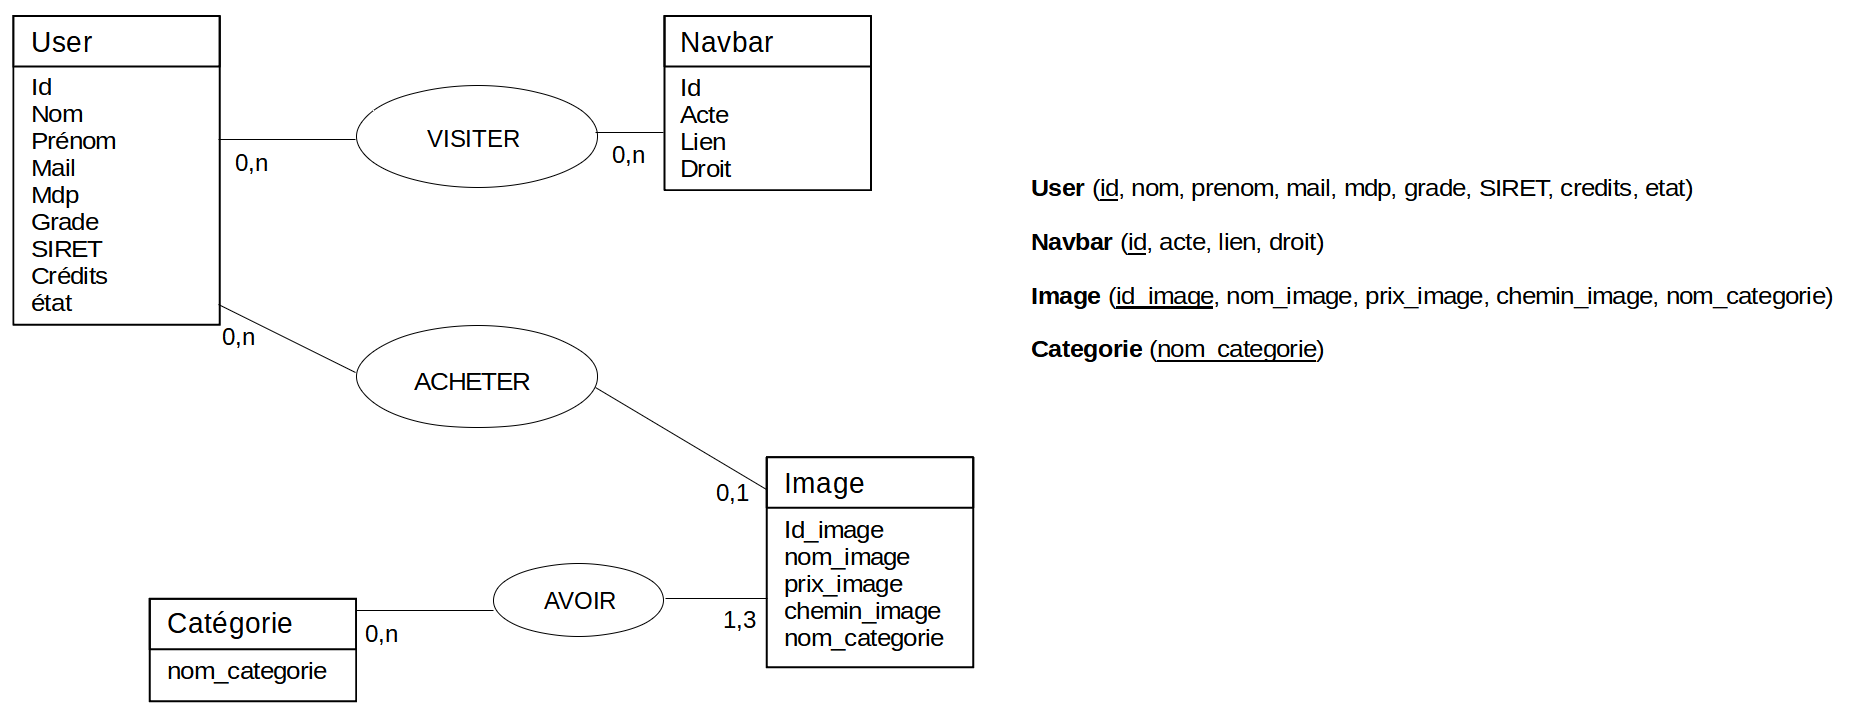
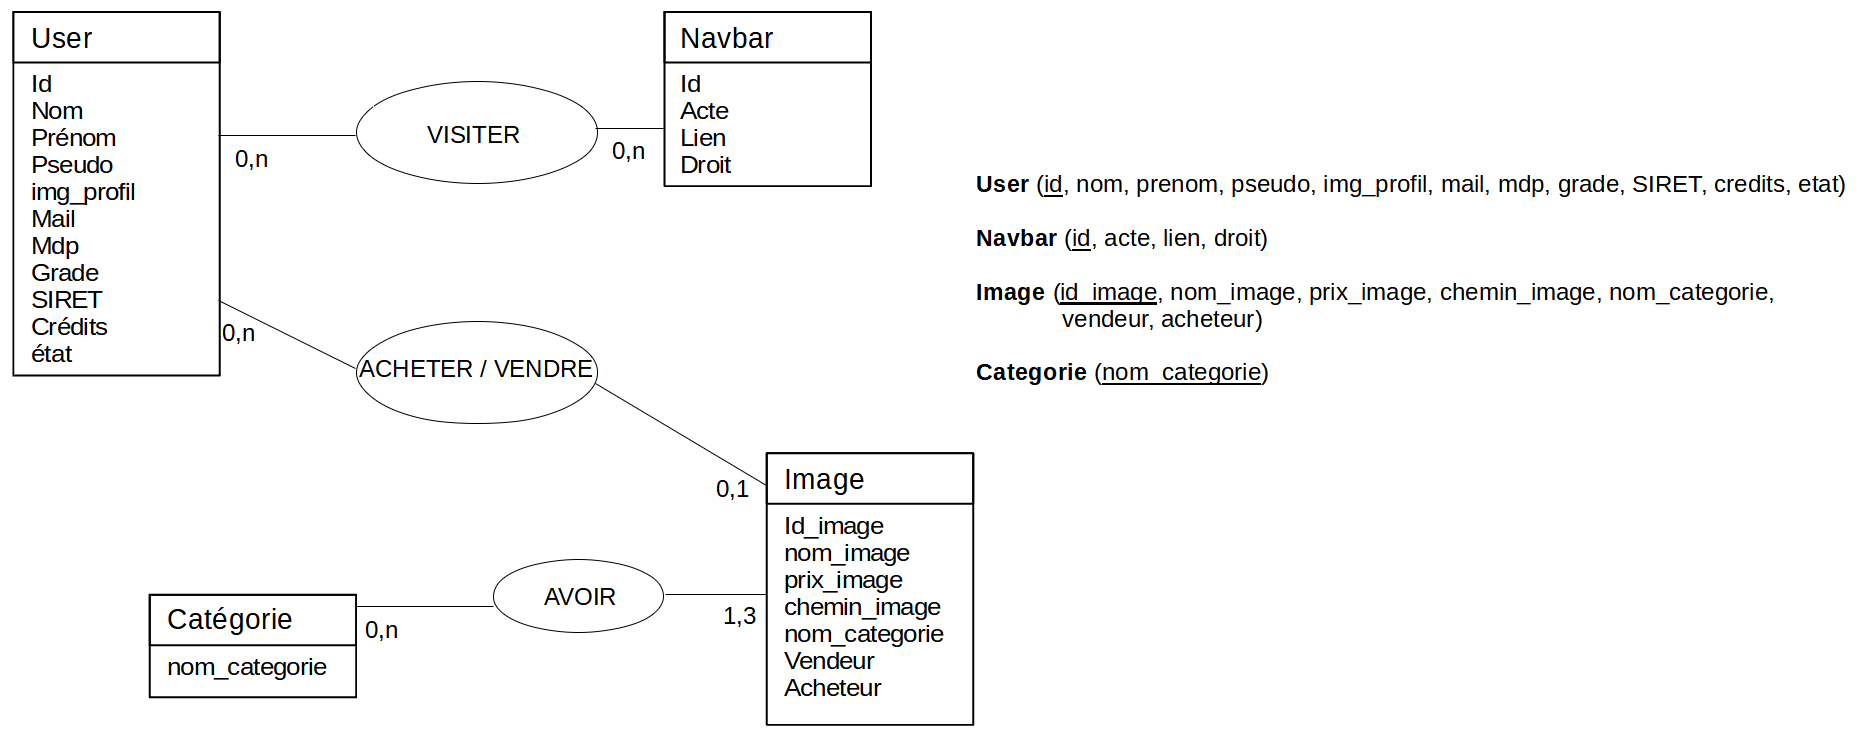
commentaire

diff --git a/deposer-des-images.php b/deposer-des-images.php
@@ -22,6 +22,7 @@ if($_SESSION['grade'] != 'photographe'){
 		include "includes/bdd.php";
 		include "includes/nav.php";
         include "includes/gestion-deposer-des-images.php";
+        //! ajouter filigrane au image
 		?>
         <h1 class="text-center mt-4">Déposer des images</h1>
 		<div class="row justify-content-center mt-4">
@@ -38,6 +39,7 @@ if($_SESSION['grade'] != 'photographe'){
                             <?php
                                 // ! Ajoutez l'autocompletion sur les 3 catégorie, avec a la place de "categorie 1/2/3 " un input type="text"
 
+                            //* liste des categorie dans option
                                 $req = $bdd->query("SELECT * FROM Categorie");
                                 $data = $req->fetchAll();
                                 foreach ($data as $li){
@@ -48,6 +50,7 @@ if($_SESSION['grade'] != 'photographe'){
                         <select name="categorie2">
                             <option value=''>Catégorie 2</option>
                             <?php
+                            //* liste des categorie dans option
                                 $req = $bdd->query("SELECT * FROM Categorie");
                                 $data = $req->fetchAll();
                                 foreach ($data as $li){
@@ -58,6 +61,7 @@ if($_SESSION['grade'] != 'photographe'){
                         <select name="categorie3">
                             <option value=''>Catégorie 3</option>
                             <?php
+                            //* liste des categorie dans option
                                 $req = $bdd->query("SELECT * FROM Categorie");
                                 $data = $req->fetchAll();
                                 foreach ($data as $li){
@@ -80,12 +84,14 @@ if($_SESSION['grade'] != 'photographe'){
                     <button type="submit" name="submit" class="btn btn-primary">Publier</button>
                 </form>
             </div>
+            //* Previsualisation de l'image qui vient d'arriver
             <div class="col-4"><img style="height:auto; width:40em" id="output" /></div>
         </div>
 
 		<?php include "includes/footer.php"; ?>
 
         <script>
+        //* script pour l'affichage automatique de l'image
             var loadFile = function(event){
                 var output = document.getElementById('output');
                 output.src = URL.createObjectURL(event.target.files[0]);

diff --git a/includes/nav.php b/includes/nav.php
@@ -14,9 +14,10 @@
         <li class="nav-item"><a class="nav-link" href="categorie.php">Catégorie</a></li>
 
 <?php
-
         if(isset($_SESSION['grade'])){
+//* Si l'utilisateur est admin
           if($_SESSION['grade'] == 'admin'){
+    //* Dropdown client
             $req = $bdd->query("SELECT acte, lien FROM navbar WHERE droit=1");
             $data = $req->fetchAll();
             echo '<li class="nav-item dropdown">';
@@ -27,7 +28,7 @@
                 }
               echo '</ul>';
             echo '</li>';
-              
+    //* Dropdown photographe
             $req = $bdd->query("SELECT acte, lien FROM navbar WHERE droit=2");
             $data = $req->fetchAll();
             echo '<li class="nav-item dropdown">';
@@ -38,14 +39,14 @@
                 }
                 echo '</ul>';
               echo '</li>';
-
+    //* liste des page admin
             $req = $bdd->query("SELECT acte, lien FROM navbar WHERE droit=3");
             $data = $req->fetchAll();
             foreach ($data as $li){
               echo '<li class="nav-item"><a class="nav-link" href='.$li['lien'].'>'.$li['acte'].'</a></li>';
             }
           }
-
+//* Si l'utilisateur est photographe
           if($_SESSION['grade'] == 'photographe'){
             $req = $bdd->query("SELECT acte, lien FROM navbar WHERE droit=2");
             $data = $req->fetchAll();
@@ -53,7 +54,7 @@
               echo '<li class="nav-item"><a class="nav-link" href='.$li['lien'].'>'.$li['acte'].'</a></li>';
             }
           }
-
+//* Si l'utilisateur est client
           if($_SESSION['grade'] == 'client'){
             $req = $bdd->query("SELECT acte, lien FROM navbar WHERE droit=1");
             $data = $req->fetchAll();
@@ -64,6 +65,7 @@
         }
 
         if(empty($_SESSION['grade'])){
+    //* affichage de la page acheter des credit si non-connecter, la page est dans la bdd avec droit=1 (client)
           echo '<li class="nav-item"><a class="nav-link" href="acheter-des-credits.php">Tarif</a></li>';
         }
 ?> 
@@ -75,6 +77,7 @@
       </form>
       <ul class="navbar-nav">
 <?php
+    //* deconnection || connection et inscription
         if(isset($_SESSION['grade'])){
           echo '<li class="nav-item"><a class="nav-link" href="includes/logout.php">Déconnection</a></li>';
         }else{

diff --git a/inscription.php b/inscription.php
@@ -35,6 +35,7 @@
                     <div class="mb-2">
                         <label for="img_profil" class="form-label">Image (pas obligatoire)</label><br/>
                         <input class="align-center" type="file" name="img_profil" onchange="loadFile(event)">
+                        <!-- Previsualisation de l'image qui vient d'arriver -->
                         <img style="height:auto; width:10em" id="output" />
                     </div>
                     <div class="mb-2">
@@ -53,6 +54,7 @@
                         <input class="form-control" name="siret" pattern="[0-9]{14}" required>
 
                         <script type="text/javascript">
+                            //* fonction pour modifié le formulaire en fonction de l'option coché (photographe ou client)
                             function actualisation_grade(){
                                 var photographe = document.getElementById('photographe');
                                 var client = document.getElementById('client');
@@ -65,13 +67,14 @@
                                     suite_form.innerHTML = '';
                                 }
                             }
+                            //* si le grade est client et que l'inscription n'a pas fonctionné -> re-declenchement de la fonction pour avoir le bon affichage
                             <?php if(isset($_POST['grade'])){if($_POST['grade']=='client'){echo 'actualisation_grade()';}} ?>
                         </script>
                     </div>
 
                     <button type="submit" name="submit" class="btn btn-primary">S'inscrire</button>
                 </form>
-                <?php 
+                <?php
                 echo $mes_error;
                 ?>
                 <hr/>
@@ -82,6 +85,7 @@
 
         <?php include "includes/footer.php"; ?>
         <script>
+        //* script pour l'affichage automatique de l'image
             var loadFile = function(event){
                 var output = document.getElementById('output');
                 output.src = URL.createObjectURL(event.target.files[0]);

diff --git a/categorie.php b/categorie.php
@@ -17,6 +17,7 @@ session_start();
 	if(!empty($_GET['categorie'])){
 		if(!empty($_GET['img'])){
 	//* Page Image
+	//! besoin d'un lien pour revenir en arriere + vers compte du photographe
 			$categorie = $_GET['categorie'];
 			$id_image = $_GET['img'];
 			$req = $bdd->prepare("SELECT * FROM Image WHERE id_image = :id_image");
@@ -33,7 +34,7 @@ session_start();
 				echo '				<div class="fs-5 mb-5">';
 				echo '					<span>'.$li['prix_image'].' Credits</span>';
 				echo '				</div>';
-				//! ajouter taille // lien vers le compte du photographe ...
+				//! ajouter dimention // lien vers le compte du photographe ...
 				echo '				<p class="lead">écrire ici les caracteristique // taille // lien vers le compte du photographe ...</p>';
 				echo '				<div class="d-flex">';
 				echo '					<button class="btn btn-outline-dark flex-shrink-0" type="button">Ajoutez au panier</button>';
@@ -50,10 +51,12 @@ session_start();
 
 		}else{
 	//* Page avec la liste des images en fonction de la catégorie
+	//! besoin d'un lien pour revenir en arriere
+	//! afficher certaine caracteristique : dimention, lien vers le photographe
 
 			$categorie = $_GET['categorie'];
 
-			$req = $bdd->prepare("SELECT * FROM Image WHERE nom_categorie = :categorie");
+			$req = $bdd->prepare("SELECT * FROM Image WHERE nom_categorie = :categorie AND acheteur IS NULL");
 			$req->bindValue(':categorie', $categorie);
 			$req->execute();
 			$data = $req->fetchAll();
@@ -101,7 +104,7 @@ session_start();
 
 				//* Image la plus rescente de la catégorie
 				$req_img = $bdd->prepare("SELECT chemin_image FROM Image WHERE nom_categorie = :nom_categorie 
-							AND id_image = (SELECT max(id_image) FROM Image WHERE nom_categorie = :nom_categorie ) ");
+							AND id_image = (SELECT max(id_image) FROM Image WHERE nom_categorie = :nom_categorie AND acheteur IS NULL ) ");
 				$req_img->bindValue(':nom_categorie', $li['nom_categorie']);
 				$req_img->execute();
 				$data_img = $req_img->fetchAll();

diff --git a/profil.php b/profil.php
@@ -23,10 +23,12 @@ if(empty($_SESSION['grade'])){
 if(!empty($_GET['pseudo'])){
   $pseudo = $_GET['pseudo'];
 
+  //* nombre d'image mis en vente par le vendeur
     $req = $bdd->prepare("SELECT * FROM image WHERE vendeur = '$pseudo'");
     $req->execute();
     $nb_image = $req->rowCount();
 
+  //* Recuperation des info de l'utilisateur en fonction du $_GET
     $req = $bdd->query("SELECT * FROM user WHERE pseudo = '$pseudo'");
     $data = $req->fetchAll();
     foreach ($data as $li){
@@ -41,6 +43,7 @@ if(!empty($_GET['pseudo'])){
 			<!-- Image de l'utilisateur -->
               <img src="<?php echo $li['img_profil']; ?>" class="img-fluid img-thumbnail mt-4 mb-2" style="width: 150px; z-index: 1">
               <?php
+            //* Editer le profil afficher uniquement si la SESSION correspond au GET
               if($_SESSION['pseudo'] == $pseudo){
                 echo '<button type="button" class="btn btn-outline-dark" data-mdb-ripple-color="dark" style="z-index: 1;">Editer le profil</button>';
               }
@@ -64,6 +67,7 @@ if(!empty($_GET['pseudo'])){
             <div class="mb-5">
               <p class="lead fw-normal mb-1">Mes information</p>
               <div class="p-4" style="background-color: #f8f9fa;">
+              <!-- Tableau des information de l'utilisateur -->
               <table class="table">
                 <tbody>
                   <tr>
@@ -96,7 +100,8 @@ if(!empty($_GET['pseudo'])){
             </div>
             <div class="row g-2">
             <?php
-              $req_img = $bdd->query("SELECT * FROM Image WHERE vendeur = '$pseudo'");
+            //* Liste des images de l'utilisateur qui sont encore achetable
+              $req_img = $bdd->query("SELECT * FROM Image WHERE vendeur = '$pseudo' AND acheteur IS NULL");
               $req_img->execute();
               $data_img = $req_img->fetchAll();
               echo '<section class="py-5">';

diff --git a/includes/gestion-deposer-des-images.php b/includes/gestion-deposer-des-images.php
@@ -14,7 +14,7 @@ if(isset($_POST['submit'])){
     if(strlen($nom_image) < 3 && strlen($nom_image) > 20){ $validation = False; }
 
     // ! Verif que le nom n'existe pas dans la base de donnée
-    // ! Prix minimum
+    // ! Prix minimum / max
     // ! Categorie existante dans la table categorie
     // ! isset $_FILES
     // ! .ext des image == jpg...
@@ -24,6 +24,7 @@ if(isset($_POST['submit'])){
 
     if($validation == True){
 
+    //* Renommage de l'image et ajout du chemin
         $file_name = $_FILES['img']['name'];
         $ext_img = ".".strtolower(substr(strrchr($file_name, "."), 1));
         $chemin_image = "upload/".$categorie1."/".$nom_image.$ext_img;
@@ -32,9 +33,11 @@ if(isset($_POST['submit'])){
 
         $categorie = $categorie1;
         
+    //* Si d'autre categorie ont ete choisie -> virgule + la prochaine categorie
         if(!empty($categorie2)){ $categorie = $categorie.', '.$categorie2; }
         if(!empty($categorie3)){ $categorie = $categorie.', '.$categorie3; }
 
+    //* Ajout dans la bdd
         $req = $bdd->prepare("INSERT INTO image (nom_image, prix_image, chemin_image, nom_categorie, vendeur) VALUES (:nom_image, :prix_image, :chemin_image, :nom_categorie, :vendeur)");
         $req->bindValue(':nom_image', $nom_image);
         $req->bindValue(':prix_image', $prix_image);

diff --git a/includes/gestion-inscription.php b/includes/gestion-inscription.php
@@ -47,9 +47,11 @@ if (isset($_POST['submit'])){
     if($_POST['password1'] != $_POST['password2']){ $validation = False; $mes_error = '<br/>Les mots de passe ne corresponde pas.'; }
 
     if($validation == True){
-
+    //* Si il ni a pas d'image
         $chemin_image = 'upload/user/defaut.png';
+    //* Sinon
         if($_FILES['img_profil']['name'] = ''){
+        //* Renommage de l'image et ajout du chemin
             $file_name = $_FILES['img_profil']['name'];
             $ext_img = ".".strtolower(substr(strrchr($file_name, "."), 1));
             $chemin_image = "upload/user/".$pseudo.$ext_img;
@@ -58,14 +60,14 @@ if (isset($_POST['submit'])){
         }
 
         $mdp = sha1($_POST['password1']);   
-        // * Si le comte est photographe il faut une validation de l'admin
+        //* Si le comte est photographe il faut une validation de l'admin
         if($grade == 'photographe'){
             $etat = 'attValid';
         }
         if($grade == 'client'){
             $etat = 'valid';
         }
-
+        //* Ajout bdd
         $req = $bdd->prepare("INSERT INTO user (nom, prenom, pseudo, img_profil, mail, mdp, grade, SIRET, etat) 
                             VALUES (:nom, :prenom, :pseudo, :img_profil, :mail, :mdp, :grade, :siret, :etat)");
         $req->bindValue(':nom', $nom);

diff --git a/gestion-categorie.php b/gestion-categorie.php
@@ -28,7 +28,7 @@ if($_SESSION['grade'] != 'admin'){
             $nom_categorie = $_POST['nom_categorie'];
     
             if(strlen($nom_categorie) < 3 && strlen($nom_categorie) > 20){ $validation = False; }
-            //* Vérification des doublons
+            //* Vérification des doublons de categorie
             $req = $bdd->prepare("SELECT * FROM categorie WHERE nom_categorie = '$nom_categorie'");
             $req->execute();
             $result = $req->rowCount();
@@ -63,6 +63,7 @@ if($_SESSION['grade'] != 'admin'){
                         <td class="p-2">Supprimer</td>
                     </tr>
                 <?php
+                //* Affichage des categories avec lien pour supprimer
                     $req = $bdd->query("SELECT * FROM Categorie");
                     $data = $req->fetchAll();
                     foreach ($data as $li){

diff --git a/suppr-categorie.php b/suppr-categorie.php
@@ -15,11 +15,12 @@
     
             $nom_categorie = $_GET["nom_categorie"];
     
+        //* Supprime dans la bdd la categorie
             $req = $bdd->prepare("DELETE FROM categorie WHERE nom_categorie = :nom_categorie");
             $req->bindValue(':nom_categorie', $nom_categorie);
             $req->execute();            
             header("location:gestion-categorie.php");
-            //* supprime le dossier de la categorie
+        //* supprime le dossier de la categorie
             rmdir('upload/'.$nom_categorie); 
         }
     }

diff --git a/connexion.php b/connexion.php
@@ -33,6 +33,7 @@
             if($etat == 'banni'){
                 $mess = 'Votre comte à été banni.';
             }
+        //* Si le compte est valid
             if($etat == 'valid'){
                 $req_grade = "SELECT grade FROM user WHERE mail = '$mail'";
                 $r_g = $bdd->prepare($req_grade);

diff --git a/gestion-utilisateur.php b/gestion-utilisateur.php
@@ -34,6 +34,7 @@ if($_SESSION['grade'] != 'admin'){
 						<td>Etat</td>
 					</tr>
 					<?php
+				//* Liste des utilisateur
         			    $req = $bdd->query("SELECT * FROM User WHERE grade != 'admin'");
         			    $data = $req->fetchAll();
         			    echo '';

diff --git a/index.php b/index.php
@@ -11,6 +11,7 @@ session_start();
 		<?php 
 		include "includes/bdd.php";
 		include "includes/nav.php";
+		//! ajouter les dernieres img mise en vente qui non pas encore d'acheter (a limier en nombre)
 		?>
 		
 
